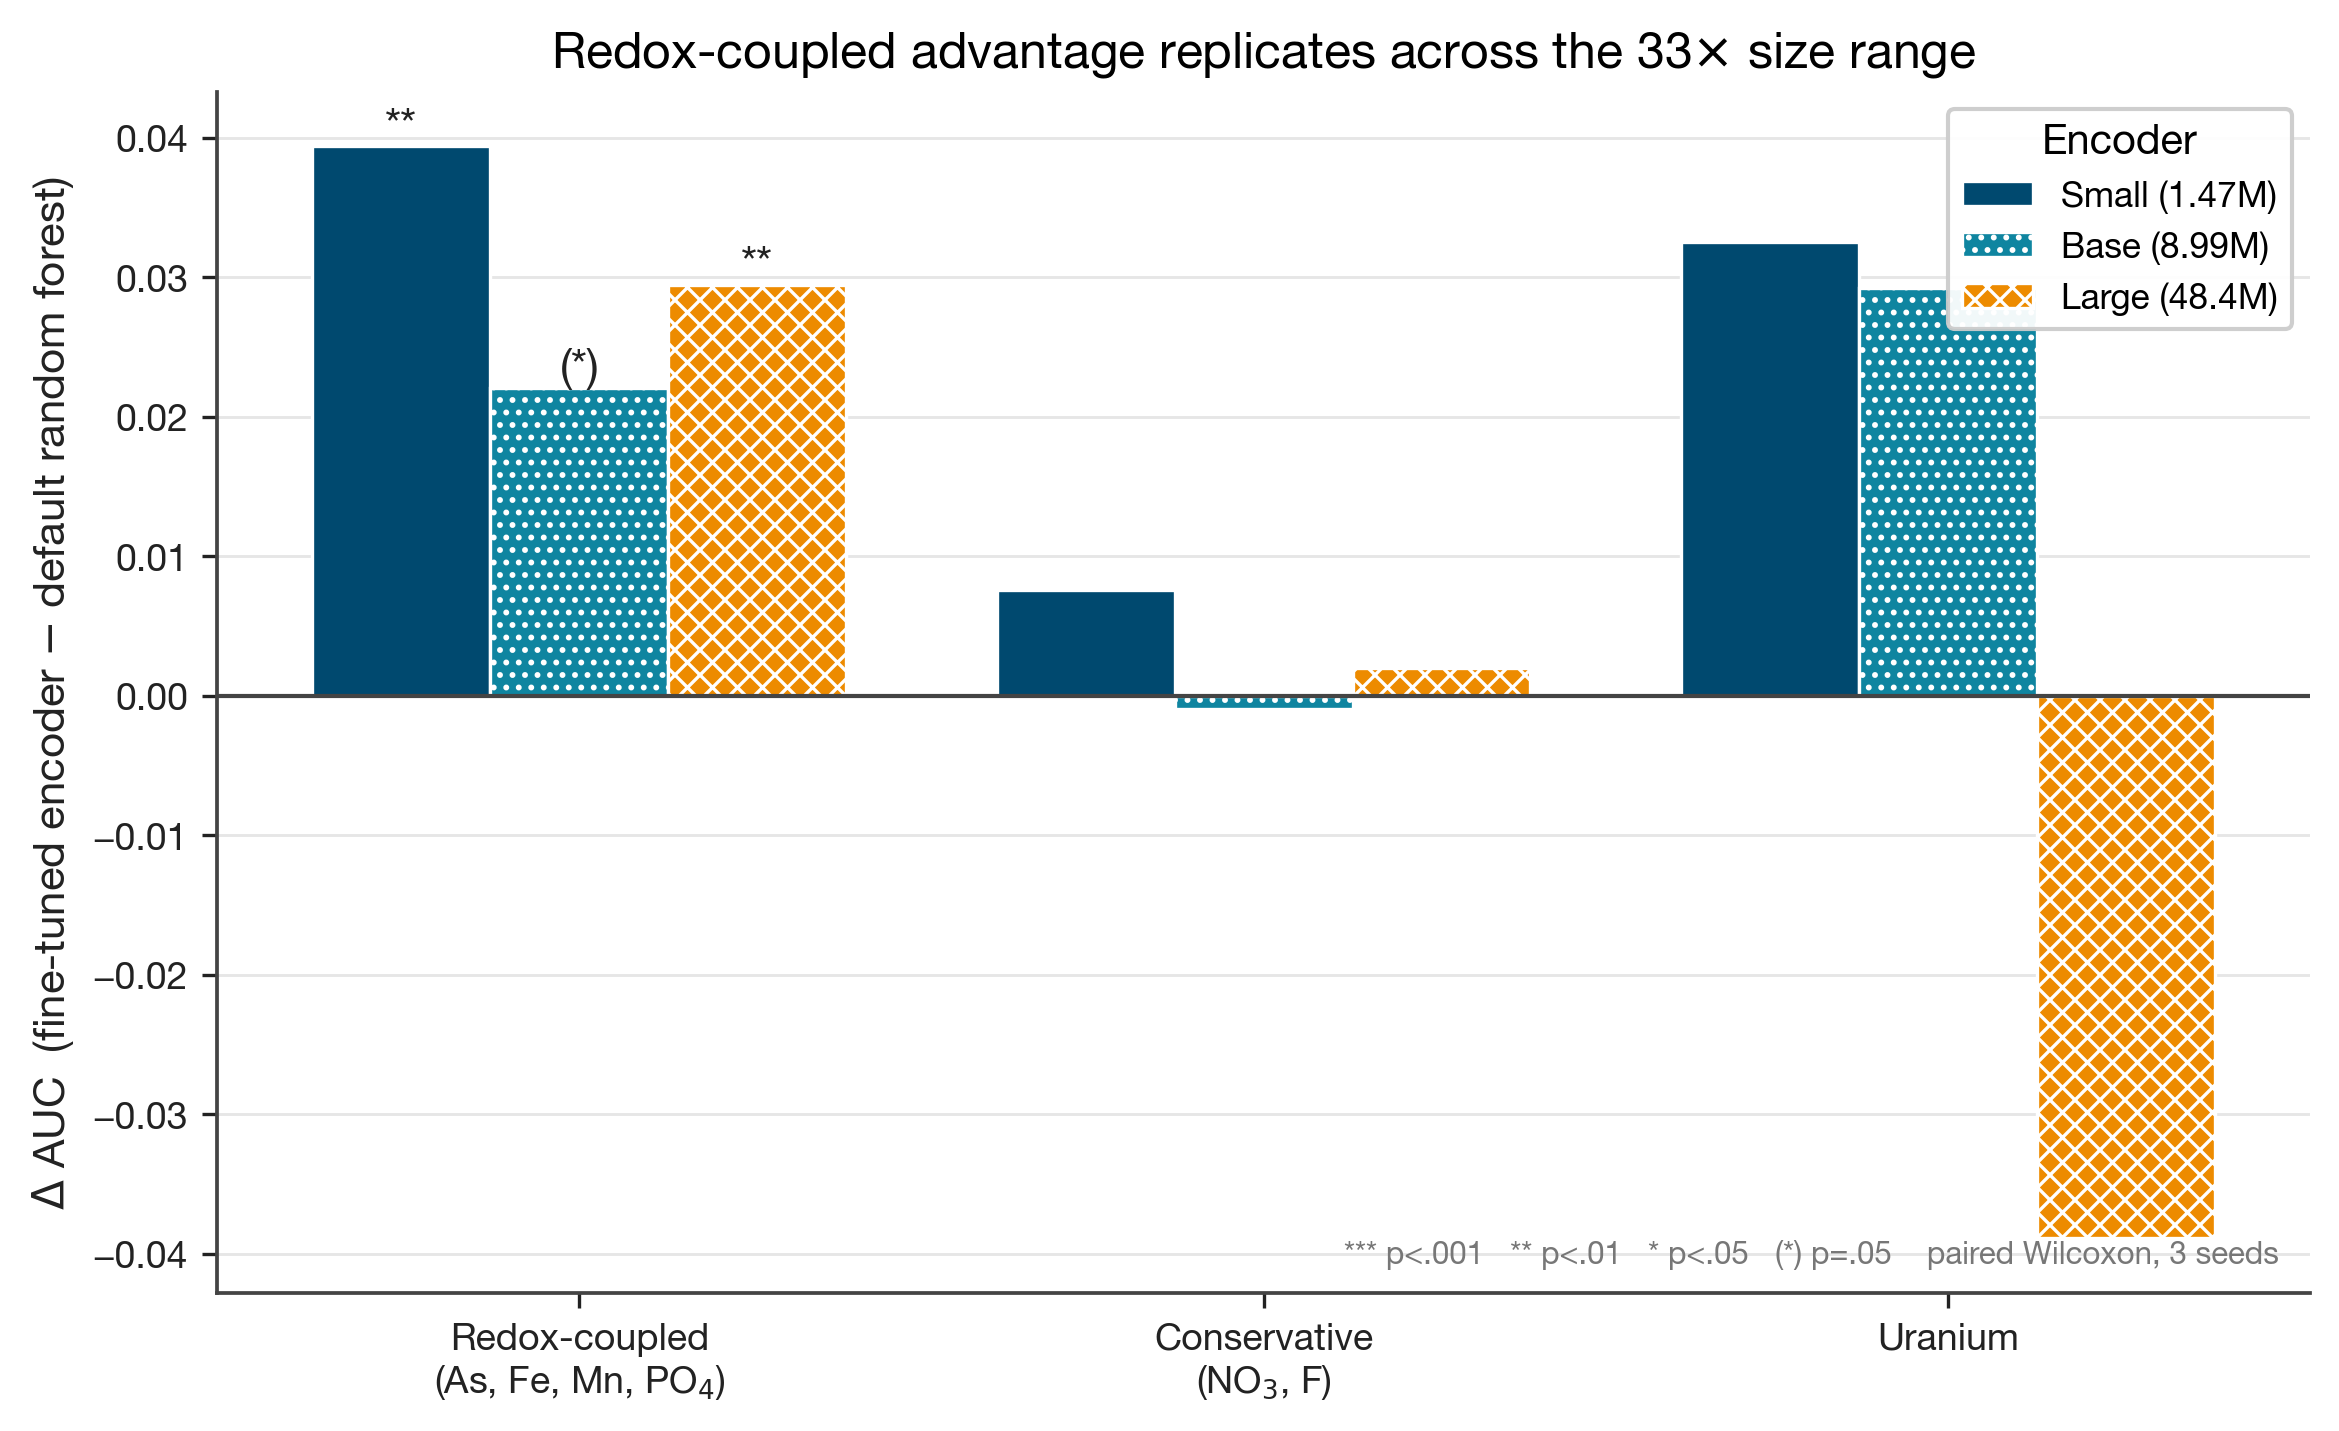
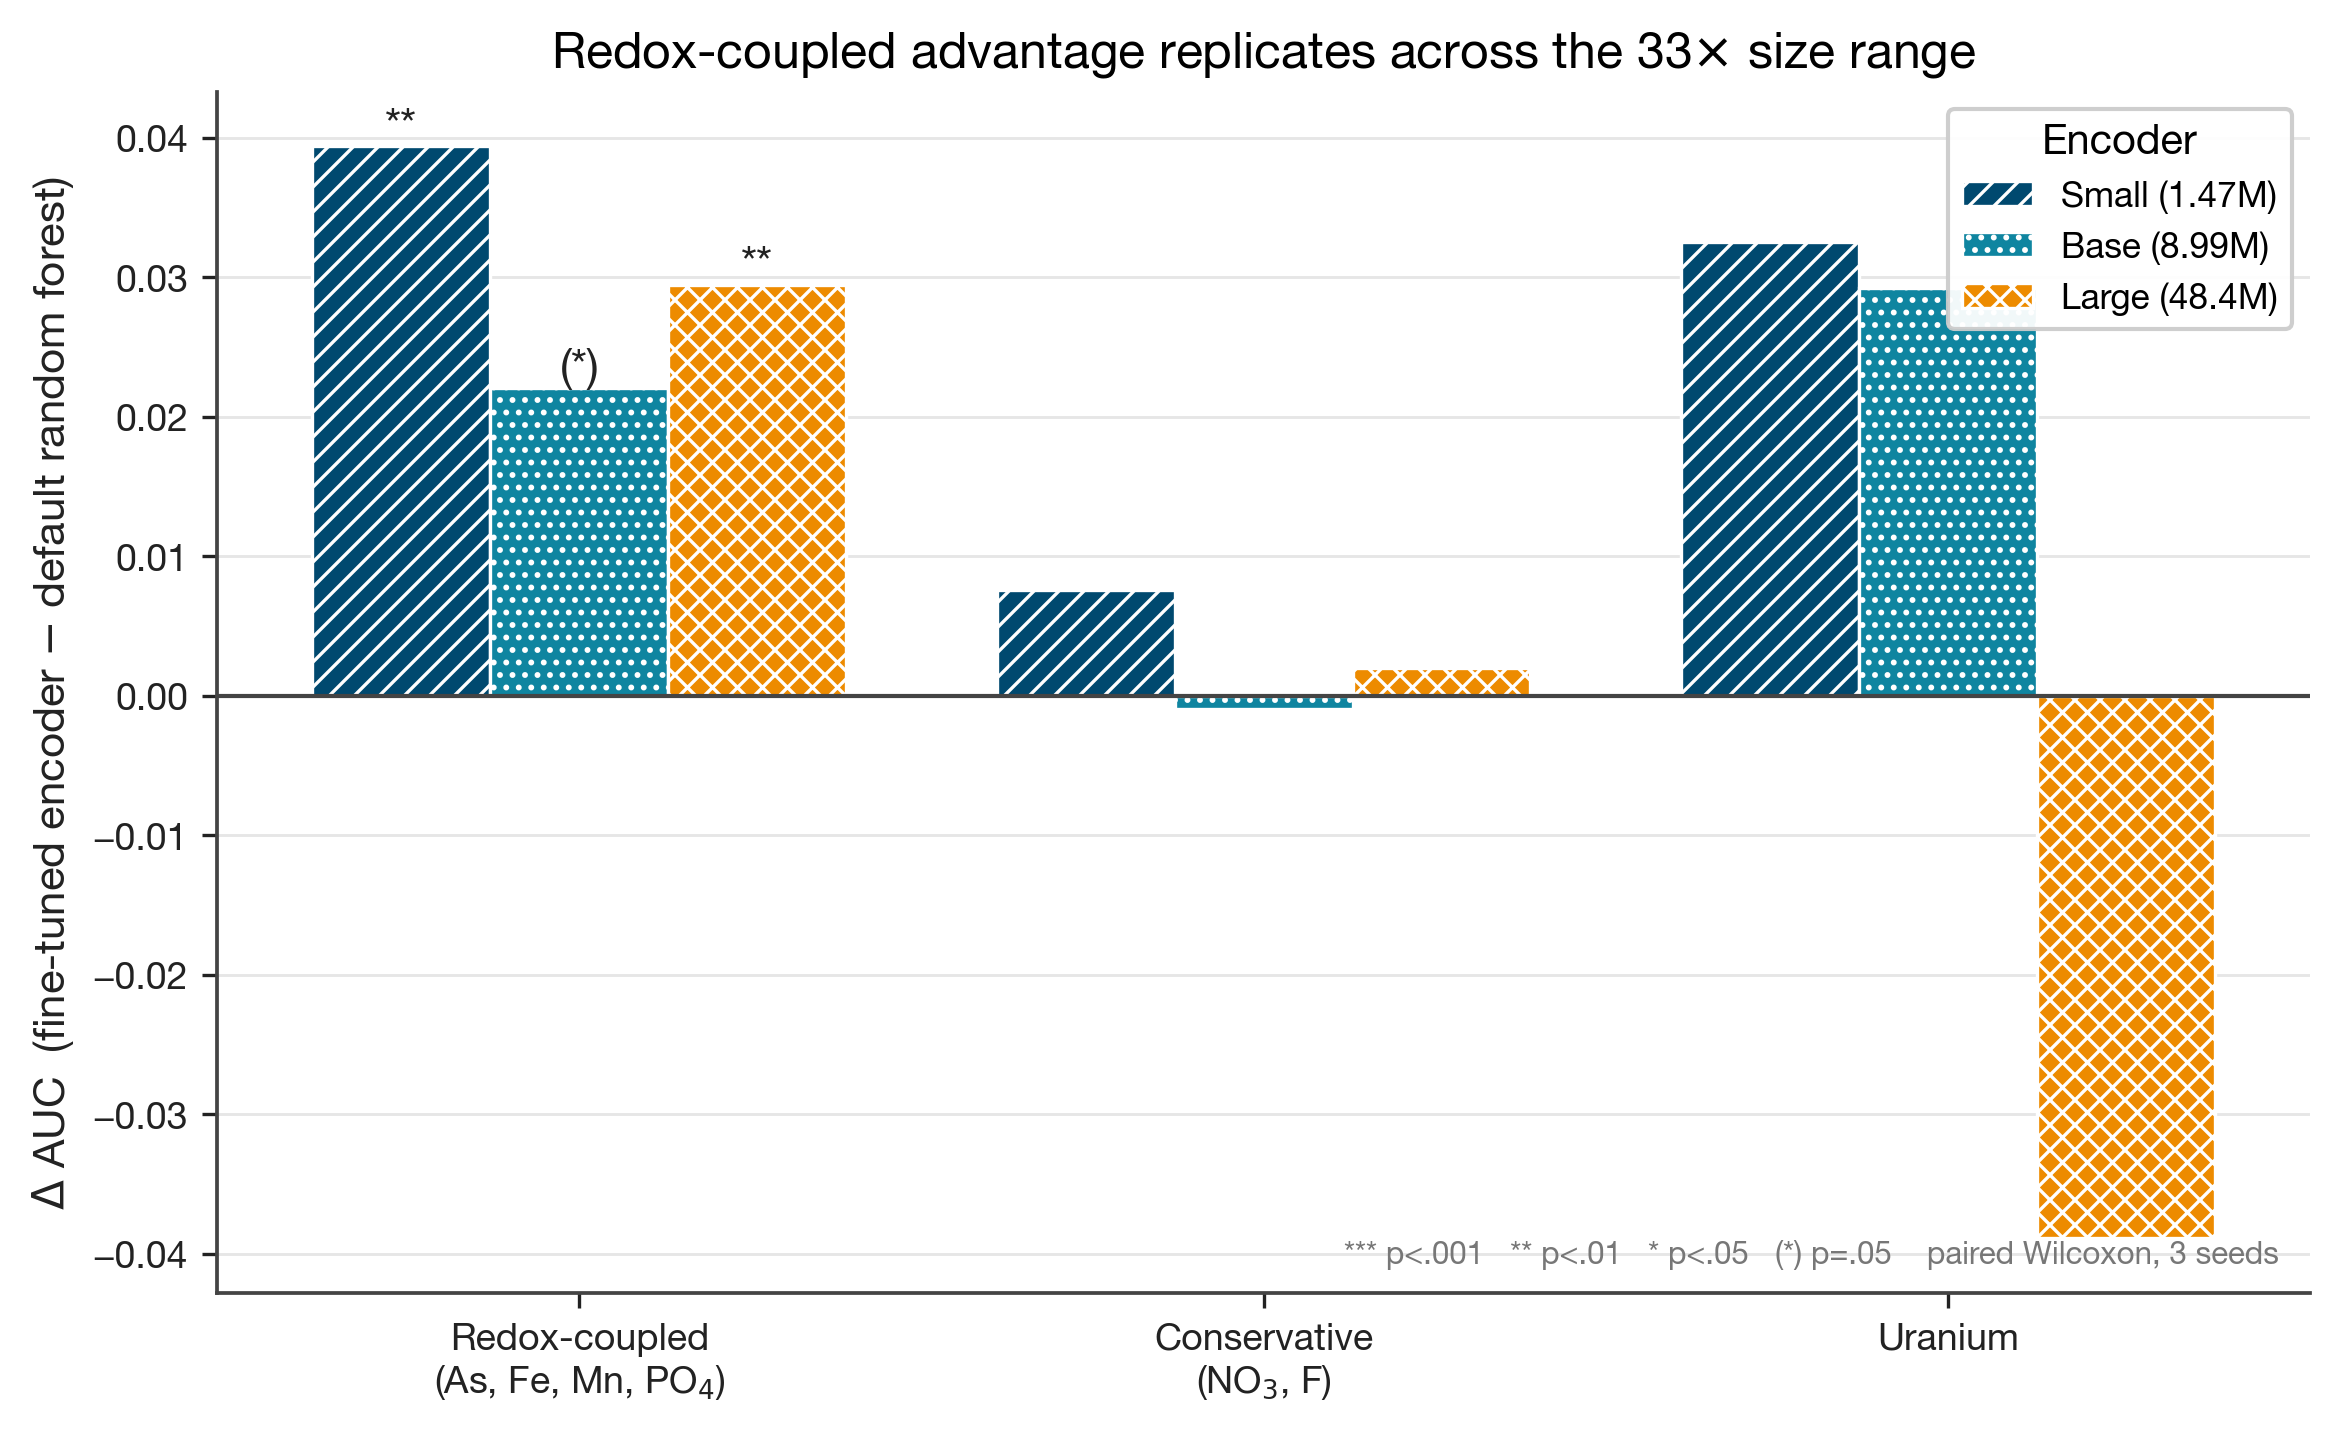
Figure viz upgrade: dumbbell/lollipop replace bar charts; uniform no-solid hatching
- Benchmark (b) FT-vs-RF: grouped bars -> dumbbell (RF circle vs FT diamond per
  mechanism group; connector = the gap).
- Benchmark (d) baseline-strength: bars -> lollipop with trend line (advantage
  declining as the tree baseline strengthens).
- Reconstruction: paired bars -> dumbbell (corpus dot -> Bangladesh X; long left
  connector = the redox collapse).
- Attention: grouped bars -> Cleveland dot plot (3 encoder-size dots per coupling,
  noise-floor band).
- figstyle: removed all plain/solid hatches; every remaining bar now carries a
  group-wise pattern (no solid bars).

Changed region(s): [[0.1248, 0.0922, 0.2185, 0.492], [0.7178, 0.1845, 0.7802, 0.492], [0.4369, 0.3997, 0.4994, 0.492]]

diff --git a/src/41_composite_figures.py b/src/41_composite_figures.py
@@ -41,6 +41,7 @@ def _load_attn(d):
 
 
 def draw_attention(ax):
+    """Cleveland dot plot: 3 encoder-size dots per coupling, with noise-floor band."""
     dirs = {"Small": "results/attention_analysis_small",
             "Base": "results/attention_analysis",
             "Large": "results/attention_analysis_large_stage2"}
@@ -48,18 +49,28 @@ def draw_attention(ax):
     coup = lambda A, idx, a, b: (A[idx[a], idx[b]] + A[idx[b], idx[a]]) / 2
     floors = [float(np.median(A[~np.eye(A.shape[0], dtype=bool)])) for A, _ in data.values()]
     vals = {k: [coup(A, idx, a, b) for _, (a, b) in COUPLINGS] for k, (A, idx) in data.items()}
-    x = np.arange(len(COUPLINGS)); w = 0.27
-    for i, sz in enumerate(["Small", "Base", "Large"]):
-        ax.bar(x + (i - 1) * w, vals[sz], w, color=fs.color(sz), hatch=fs.hatch(sz),
-               label={"Small": "Small (1.47M)", "Base": "Base (8.99M)", "Large": "Large (48.4M)"}[sz], **fs.BAR)
-    ax.axhspan(min(floors), max(floors), color="#999", alpha=0.22, zorder=0)
-    ax.axhline(float(np.median(floors)), color="#666", ls="--", lw=0.9)
-    ax.axvline(2.5, color="#bbb", ls="--", lw=1.0)
-    ax.text(1, 0.075, "Oxic major-ion", ha="center", fontsize=9.5, color="#333", fontweight="bold")
-    ax.text(4, 0.075, "Reducing arsenic", ha="center", fontsize=9.5, color=fs.RED, fontweight="bold")
-    ax.set_xticks(x); ax.set_xticklabels([c[0] for c in COUPLINGS], fontsize=8)
-    ax.set_ylabel("Mean learned attention weight"); ax.set_ylim(0, 0.08)
-    ax.legend(title="Encoder", loc="upper right", fontsize=7.5); ax.grid(axis="x", visible=False)
+    y = np.arange(len(COUPLINGS))[::-1]
+    mk = {"Small": "o", "Base": "s", "Large": "D"}
+    lbl = {"Small": "Small (1.47M)", "Base": "Base (8.99M)", "Large": "Large (48.4M)"}
+    # noise floor band (vertical)
+    ax.axvspan(min(floors), max(floors), color="#999", alpha=0.22, zorder=0)
+    ax.axvline(float(np.median(floors)), color="#666", ls="--", lw=0.9, zorder=1)
+    ax.text(float(np.median(floors)), len(COUPLINGS) - 0.4, " noise floor", fontsize=7.5,
+            color="#666", style="italic", ha="left", va="top")
+    for yi, ci in zip(y, range(len(COUPLINGS))):
+        triple = [vals[s][ci] for s in ["Small", "Base", "Large"]]
+        ax.plot([min(triple), max(triple)], [yi, yi], color="#ddd", lw=1.5, zorder=1)
+        for s in ["Small", "Base", "Large"]:
+            ax.scatter(vals[s][ci], yi, s=68, color=fs.color(s), marker=mk[s],
+                       edgecolor="#333", linewidth=0.5, zorder=3,
+                       label=lbl[s] if ci == 0 else None)
+    # divider between oxic (top 3) and reducing (bottom 3) groups
+    ax.axhline(2.5, color="#bbb", ls="--", lw=1.0)
+    ax.set_yticks(y); ax.set_yticklabels([c[0] for c in COUPLINGS], fontsize=8.5)
+    ax.set_xlabel("Mean learned attention weight"); ax.set_xlim(0, 0.08)
+    ax.text(0.075, y[1], "oxic", ha="right", fontsize=8.5, color="#333", fontweight="bold")
+    ax.text(0.075, y[4], "reducing As", ha="right", fontsize=8.5, color=fs.RED, fontweight="bold")
+    ax.legend(title="Encoder", loc="lower right", fontsize=7.5); ax.grid(axis="y", visible=False)
 
 
 # ---------------------------------------------------------------- reconstruction (F2b)
@@ -68,23 +79,29 @@ RECON_ORDER = ["Eh", "As", "U", "Mn", "PO4", "Fe", "SO4", "NO3",
 
 
 def draw_reconstruction(ax):
+    """Dumbbell: corpus R2 -> Bangladesh R2 per parameter; long left arrow = collapse."""
     d = json.load(open("results/reconstruction_probe.json"))
     corp, bd = d["corpus"], d["bangladesh"]
     ps = [p for p in RECON_ORDER if p in corp and p in bd]
-    y = np.arange(len(ps))[::-1]; h = 0.38
+    y = np.arange(len(ps))[::-1]
+    from matplotlib.lines import Line2D
     for yi, p in zip(y, ps):
         red = p in REDOX
         col = fs.color("redox_active") if red else fs.color("conservative_ion")
-        hat = fs.hatch("redox_active") if red else ""
-        ax.barh(yi + h/2, corp[p]["r2"], h, color=col, hatch=hat, **fs.BAR)
-        ax.barh(yi - h/2, bd[p]["r2"], h, color=col, hatch=hat, alpha=0.45, **fs.BAR)
+        c_r2, b_r2 = corp[p]["r2"], bd[p]["r2"]
+        ax.plot([b_r2, c_r2], [yi, yi], color="#ccc", lw=2.0, zorder=1, solid_capstyle="round")
+        ax.scatter(b_r2, yi, s=70, color=col, marker="X", edgecolor="#333", linewidth=0.5, zorder=3)  # Bangladesh
+        ax.scatter(c_r2, yi, s=70, color=col, marker="o", edgecolor="#333", linewidth=0.5, zorder=3)  # corpus
     ax.axvline(0, color="#444", lw=1.0)
     ax.set_yticks(y); ax.set_yticklabels([p + (r" $^\ast$" if p in REDOX else "") for p in ps], fontsize=8)
-    ax.set_xlabel(r"Reconstruction $R^2$ (mask-one)"); ax.set_xlim(-5, 1.05)
+    ax.set_xlabel(r"Reconstruction $R^2$ (mask-one)"); ax.set_xlim(-5, 1.1)
     ax.grid(axis="y", visible=False)
-    ax.legend(handles=[Patch(facecolor=fs.color("redox_active"), hatch="....", edgecolor="white", label=r"redox-active ($^\ast$)"),
-                       Patch(facecolor=fs.color("conservative_ion"), edgecolor="white", label="conservative"),
-                       Patch(facecolor="#999", label="corpus | BD (faded)")],
+    ax.legend(handles=[Line2D([0], [0], marker="o", color="w", markerfacecolor="#555",
+                              markeredgecolor="#333", ms=8, label="corpus"),
+                       Line2D([0], [0], marker="X", color="w", markerfacecolor="#555",
+                              markeredgecolor="#333", ms=8, label="Bangladesh"),
+                       Patch(facecolor=fs.color("redox_active"), edgecolor="white", label=r"redox-active ($^\ast$)"),
+                       Patch(facecolor=fs.color("conservative_ion"), edgecolor="white", label="conservative")],
               loc="lower left", fontsize=7.5)
 
 
@@ -116,23 +133,27 @@ def draw_transfer_distance(ax):
 
 
 def draw_ft_vs_rf_bars(ax):
+    """Dumbbell: fine-tuned vs default random forest per mechanism group."""
     s = json.load(open("results/redox_dissociation.json"))
-    groups = [("Redox\n(As,Fe,Mn,PO$_4$)", "ft_vs_rf__REDOX_AsFeMnPO4"),
-              ("Conserv.\n(NO$_3$,F)", "ft_vs_rf__CONSERVATIVE_NO3F"),
-              ("Uranium", "ft_vs_rf__URANIUM"), ("All", "ft_vs_rf__ALL_47")]
-    x = np.arange(len(groups)); w = 0.36
-    ft = [s[k]["mean_a"] for _, k in groups]; rf = [s[k]["mean_b"] for _, k in groups]
-    ps = [s[k]["wilcoxon_p"] for _, k in groups]
-    ax.bar(x - w/2, ft, w, color=fs.color("finetuned"), hatch=fs.hatch("finetuned"), label="Fine-tuned", **fs.BAR)
-    ax.bar(x + w/2, rf, w, color=fs.color("rf"), hatch=fs.hatch("rf"), label="Random forest", **fs.BAR)
-    ax.axhline(0.5, color="#999", ls=":", lw=1.0)
-    for i, p in enumerate(ps):
+    groups = [("Redox (As,Fe,Mn,PO$_4$)", "ft_vs_rf__REDOX_AsFeMnPO4"),
+              ("Conservative (NO$_3$,F)", "ft_vs_rf__CONSERVATIVE_NO3F"),
+              ("Uranium", "ft_vs_rf__URANIUM"), ("All cells", "ft_vs_rf__ALL_47")]
+    y = np.arange(len(groups))[::-1]
+    for yi, (g, k) in zip(y, groups):
+        ft, rf, p = s[k]["mean_a"], s[k]["mean_b"], s[k]["wilcoxon_p"]
+        ax.plot([rf, ft], [yi, yi], color="#bbb", lw=2.5, zorder=1, solid_capstyle="round")
+        ax.scatter(rf, yi, s=95, color=fs.color("rf"), edgecolor="#333", linewidth=0.7,
+                   zorder=3, label="Random forest" if yi == y[0] else None)
+        ax.scatter(ft, yi, s=95, color=fs.color("finetuned"), edgecolor="#333", linewidth=0.7,
+                   zorder=3, marker="D", label="Fine-tuned" if yi == y[0] else None)
         st = "***" if p < .001 else "**" if p < .01 else "*" if p < .05 else "n.s."
-        ax.text(i, max(ft[i], rf[i]) + 0.02, st, ha="center", fontsize=10, fontweight="bold",
+        ax.text(max(ft, rf) + 0.012, yi, st, va="center", fontsize=9.5, fontweight="bold",
                 color="#222" if p < .05 else "#999")
-    ax.set_xticks(x); ax.set_xticklabels([g for g, _ in groups], fontsize=8)
-    ax.set_ylabel("Mean transfer AUC"); ax.set_ylim(0.5, 0.95)
-    ax.legend(loc="upper center", fontsize=7.5); ax.grid(axis="x", visible=False)
+    ax.axvline(0.5, color="#999", ls=":", lw=1.0)
+    ax.set_yticks(y); ax.set_yticklabels([g for g, _ in groups], fontsize=8.5)
+    ax.set_ylim(-0.6, len(groups) - 0.4)
+    ax.set_xlabel("Mean transfer AUC"); ax.set_xlim(0.5, 0.95)
+    ax.legend(loc="lower right", fontsize=7.5); ax.grid(axis="y", visible=False)
 
 
 def draw_ft_vs_rf_scatter(ax):
@@ -159,19 +180,24 @@ def draw_ft_vs_rf_scatter(ax):
 
 
 def draw_baseline_strength(ax):
+    """Lollipop: redox-suite advantage shrinking as the tree baseline strengthens."""
     g = json.load(open("results/baseline_strength.json"))["group_summary"]["REDOX_AsFeMnPO4"]
     order = [("rf_default", "RF\ndefault"), ("rf_reg", "RF\nreg."), ("rf_leaf", "RF\nleaf"),
              ("histgb", "HistGB"), ("xgb_strong", "XGB"), ("best_tree", "best\ntree")]
     cols = [fs.NAVY, fs.TEAL, fs.YELLOW, fs.ORANGE, fs.RED, fs.GREY]
     x = np.arange(len(order))
-    for xi, (k, _), c, h in zip(x, order, cols, fs.HATCH_CYCLE):
-        ax.bar(xi, g[k]["delta"], 0.66, color=c, hatch=h, **fs.BAR)
-    ax.axhline(0, color="#444", lw=1.0)
-    for xi, (k, _) in zip(x, order):
-        p = g[k]["wilcoxon_p"]; st = "**" if p < .01 else "*" if p < .05 else "n.s."
-        ax.text(xi, g[k]["delta"] + 0.0012, st, ha="center", fontsize=8.5,
+    deltas = [g[k]["delta"] for k, _ in order]
+    ax.plot(x, deltas, color="#bbb", lw=1.5, zorder=1, ls="-")  # trend connector
+    for xi, (k, _), c, d in zip(x, order, cols, deltas):
+        p = g[k]["wilcoxon_p"]
+        ax.plot([xi, xi], [0, d], color=c, lw=2.2, zorder=2)        # stem
+        ax.scatter(xi, d, s=130, color=c, edgecolor="#333", linewidth=0.7, zorder=3)
+        st = "**" if p < .01 else "*" if p < .05 else "n.s."
+        ax.text(xi, d + 0.0015, st, ha="center", va="bottom", fontsize=8.5,
                 color="#222" if p < .05 else "#999")
+    ax.axhline(0, color="#444", lw=1.0)
     ax.set_xticks(x); ax.set_xticklabels([l for _, l in order], fontsize=8)
+    ax.set_xlim(-0.5, len(order) - 0.5)
     ax.set_ylabel(r"$\Delta$AUC (FT $-$ tree)"); ax.grid(axis="x", visible=False)
 
 

diff --git a/src/figstyle.py b/src/figstyle.py
@@ -35,21 +35,21 @@ COLORS = {
     "redox_active": RED, "conservative_ion": NAVY, "bulk": TEAL,
 }
 
-# ---- fixed category -> hatch (redundant with colour) ----
-# patterns requested: dotted, crossed, horizontal, vertical, line-crossed
+# ---- fixed category -> hatch (group-wise; NO plain/solid bars) ----
+# every category gets a non-empty pattern: dotted, crossed, horizontal,
+# vertical, line-crossed, diagonal
 HATCH = {
-    "Small": "", "Base": "....", "Large": "xxxx",
-    "redox": "", "conservative": "....", "uranium": "xxxx",
-    "As": "", "Fe": "....", "Mn": "xxxx", "PO4": "////",
-    "NO3": "----", "F": "||||", "U": "++++",
-    "finetuned": "", "frozen": "....", "rf": "xxxx", "logreg": "++++",
-    "histgb": "////", "xgb": "||||",
-    "redox_active": "....", "conservative_ion": "", "bulk": "xxxx",
+    "Small": "////", "Base": "....", "Large": "xxxx",
+    "redox": "////", "conservative": "....", "uranium": "xxxx",
+    "As": "////", "Fe": "....", "Mn": "xxxx", "PO4": "++++",
+    "NO3": "----", "F": "||||", "U": "oooo",
+    "finetuned": "////", "frozen": "....", "rf": "xxxx", "logreg": "++++",
+    "histgb": "----", "xgb": "||||",
+    "redox_active": "////", "conservative_ion": "....", "bulk": "xxxx",
 }
 
-# ordered hatch cycle (for arbitrary N categories): plain, dotted, crossed,
-# horizontal, vertical, line-crossed
-HATCH_CYCLE = ["", "....", "xxxx", "----", "||||", "++++", "////", "oooo"]
+# ordered hatch cycle (for arbitrary N categories); no plain/solid entry
+HATCH_CYCLE = ["////", "....", "xxxx", "----", "||||", "++++", "\\\\\\\\", "oooo"]
 
 # bar styling: vibrant fill, white edge so the hatch reads as a clean texture
 BAR = dict(edgecolor="white", linewidth=0.8)
